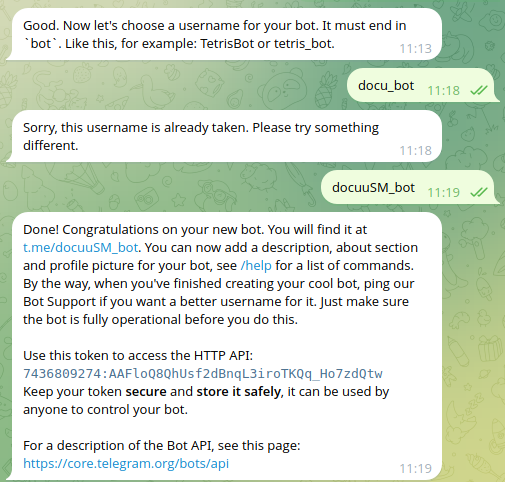
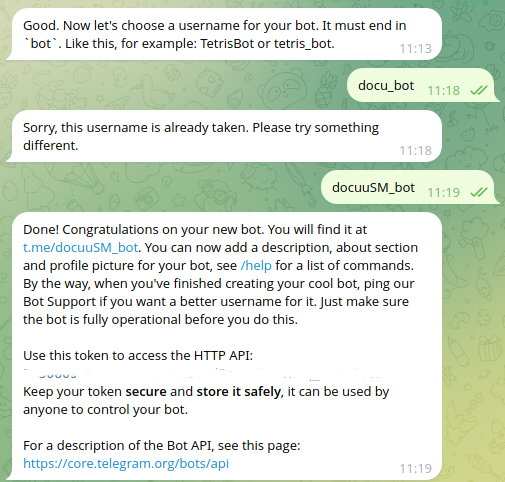
privacidad

Changed region(s): [[0.0594, 0.7469, 0.7723, 0.8091]]

diff --git a/docs/program/tm.md b/docs/program/tm.md
@@ -46,7 +46,7 @@ Cuando damos Enter tras teclear el nombre se realiza la comprobación de que dic
     Done! Congratulations on your new bot. You will find it at [t.me/docuuSM_bot](https://t.me/docuuSM_bot). You can now add a description, about section and profile picture for your bot, see [/help]() for a list of commands. By the way, when you've finished creating your cool bot, ping our Bot Support if you want a better username for it. Just make sure the bot is fully operational before you do this.
     
     Use this token to access the HTTP API:
-    7436809274:AAFloQ8QhUsf2dBnqL3iroTKQq_Ho7zdQtw
+    7436nnnn:AAFloxxxxxxxxx_xxx
     Keep your token secure and store it safely, it can be used by anyone to control your bot.
     
     For a description of the Bot API, see this page: <https://core.telegram.org/bots/api>
